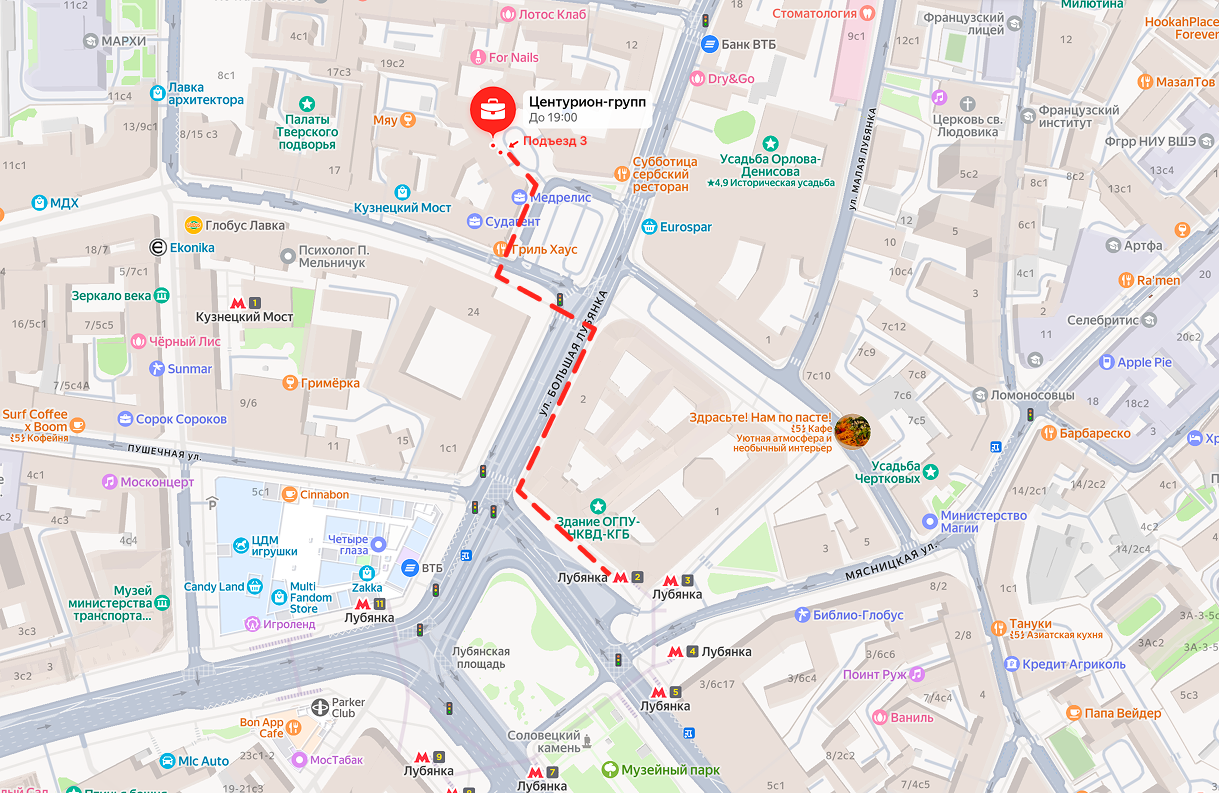
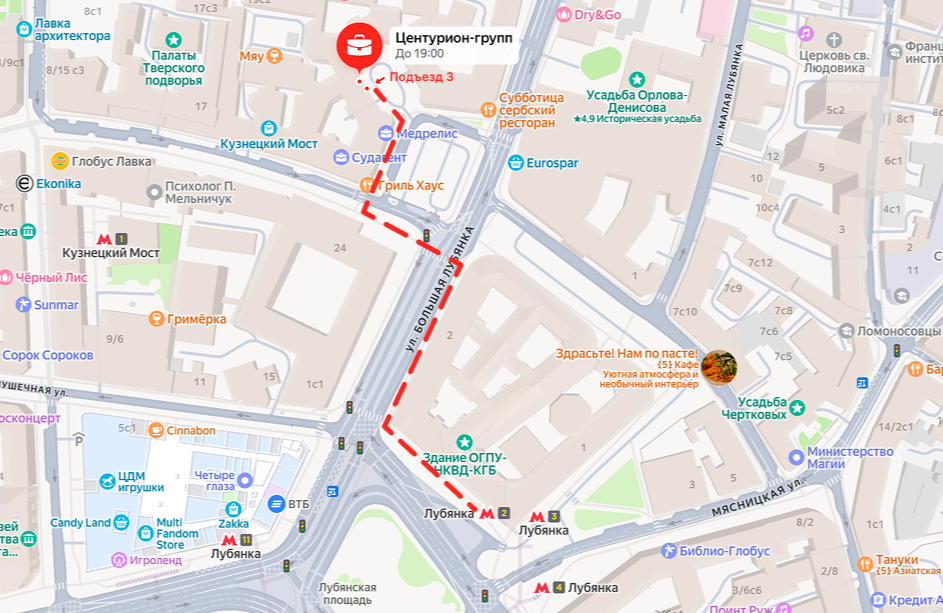
Remove map lightbox and align site containers

diff --git a/site/kontakty/index.html b/site/kontakty/index.html
@@ -100,9 +100,9 @@
               <h2>От метро Лубянка</h2>
               <p>Выйдите через выход № 2 – к Большой Лубянке и Лубянской площади. Идите прямо по зданию ОГПУ – НКВД - КГБ. На перекрестке поверните направо и идите до угла здания. Пройдите по пешеходному переходу и двигайтесь к следующему пешеходному переходу, ориентируясь на вывеску ресторана Гриль Хаус. Пройдите переход и идите прямо вдоль здания 21/5 до угла, а потом сверните налево во двор. Подъезд № 3 находится во внутреннем дворе здания.</p>
             </div>
-            <a class="direction-map-link" href="../assets/img/directions-lubyanka.png" data-lightbox-image="../assets/img/directions-lubyanka.png" data-lightbox-alt="Маршрут от метро Лубянка до офиса Центурион-групп" aria-label="Открыть карту маршрута от метро Лубянка в полном размере">
-              <img src="../assets/img/directions-lubyanka.png" alt="Маршрут от метро Лубянка до офиса Центурион-групп" width="1219" height="793" loading="lazy" decoding="async">
-            </a>
+            <figure class="direction-map">
+              <img src="../assets/img/directions-lubyanka.png" alt="Маршрут от метро Лубянка до офиса Центурион-групп" width="943" height="613" loading="lazy" decoding="async">
+            </figure>
           </article>
 
           <div class="direction-divider" aria-hidden="true"></div>
@@ -112,9 +112,9 @@
               <h2>От метро Кузнецкий мост</h2>
               <p>Выйдите через выход № 1 – к улицам Рождественка и Кузнецкий Мост. Поверните направо и пройдите через арку на улицу Рождественка. Поверните направо и идите до пешеходного перехода. Далее двигайтесь по улице Кузнецкий Мост в сторону Большой Лубянки до угла дома 21/5 (ориентир – вывеска ресторана Гриль Хаус). Сверните налево и идите во двор. Подъезд № 3 находится во внутреннем дворе здания.</p>
             </div>
-            <a class="direction-map-link" href="../assets/img/directions-kuznetsky-most.png" data-lightbox-image="../assets/img/directions-kuznetsky-most.png" data-lightbox-alt="Маршрут от метро Кузнецкий мост до офиса Центурион-групп" aria-label="Открыть карту маршрута от метро Кузнецкий мост в полном размере">
+            <figure class="direction-map">
               <img src="../assets/img/directions-kuznetsky-most.png" alt="Маршрут от метро Кузнецкий мост до офиса Центурион-групп" width="880" height="880" loading="lazy" decoding="async">
-            </a>
+            </figure>
           </article>
         </div>
       </div>
@@ -209,14 +209,6 @@
     </section>
   </main>
 
-  <div class="image-lightbox" id="map-lightbox" aria-hidden="true">
-    <div class="image-lightbox-overlay" data-lightbox-close></div>
-    <div class="image-lightbox-dialog" role="dialog" aria-modal="true" aria-label="Карта маршрута в полном размере">
-      <button class="image-lightbox-close" type="button" aria-label="Закрыть карту" data-lightbox-close>&times;</button>
-      <img class="image-lightbox-image" src="" alt="">
-    </div>
-  </div>
-
   <footer class="footer">
     <div class="container footer-inner">
       <div>ООО «Центурион-Групп» · ИНН 7725264363 · ОГРН 1157746168194</div>
@@ -224,42 +216,6 @@
     </div>
   </footer>
 
-  <script>
-    (function () {
-      var lightbox = document.getElementById('map-lightbox');
-      var lightboxImage = lightbox.querySelector('.image-lightbox-image');
-      var mapLinks = document.querySelectorAll('[data-lightbox-image]');
-      var lastFocused = null;
-
-      function openLightbox(event) {
-        event.preventDefault();
-        var link = event.currentTarget;
-        lastFocused = document.activeElement;
-        lightboxImage.src = link.dataset.lightboxImage;
-        lightboxImage.alt = link.dataset.lightboxAlt || '';
-        lightbox.setAttribute('aria-hidden', 'false');
-        document.body.classList.add('lightbox-open');
-        lightbox.querySelector('.image-lightbox-close').focus();
-      }
-
-      function closeLightbox() {
-        lightbox.setAttribute('aria-hidden', 'true');
-        document.body.classList.remove('lightbox-open');
-        lightboxImage.src = '';
-        if (lastFocused && lastFocused.focus) lastFocused.focus();
-      }
-
-      [].forEach.call(mapLinks, function (link) {
-        link.addEventListener('click', openLightbox);
-      });
-      [].forEach.call(lightbox.querySelectorAll('[data-lightbox-close]'), function (element) {
-        element.addEventListener('click', closeLightbox);
-      });
-      document.addEventListener('keydown', function (event) {
-        if (event.key === 'Escape' && lightbox.getAttribute('aria-hidden') === 'false') closeLightbox();
-      });
-    })();
-  </script>
   <script src="../assets/js/nav.js?v=20260721-nav11" defer></script>
 </body>
 </html>

diff --git a/site/assets/css/style.css b/site/assets/css/style.css
@@ -102,7 +102,7 @@ a:focus-visible {
   display: flex;
   align-items: center;
   gap: 28px;
-  padding: 16px 0;
+  padding-block: 16px;
 }
 .logo {
   display: flex;
@@ -943,7 +943,7 @@ a:focus-visible {
 .practice-map img { display: block; width: 100%; height: auto; }
 .lead-form-layout {
   display: grid;
-  grid-template-columns: minmax(0, 1fr) minmax(420px, 480px);
+  grid-template-columns: minmax(0, 1fr) minmax(0, 480px);
   gap: 72px;
   align-items: center;
 }
@@ -978,8 +978,9 @@ a:focus-visible {
 }
 .matomba-form {
   width: 100%;
-  max-width: 480px;
-  margin-left: auto;
+  max-width: none;
+  margin-left: 0;
+  justify-self: stretch;
   background: var(--ink-soft);
 }
 .matomba-frame {
@@ -988,6 +989,12 @@ a:focus-visible {
   height: 440px;
   border: 0;
   background: var(--ink-soft);
+}
+
+@media (min-width: 901px) {
+  .lead-form .matomba-form {
+    width: calc(100% + 16px);
+  }
 }
 
 @media (max-width: 900px) {
@@ -1375,16 +1382,12 @@ body.nav-open .nav-toggle span:nth-child(3) { transform: translateY(-7px) rotate
   .practice-stats { gap: 14px; }
   .practice-stats dt { font-size: 1.05rem; }
   .matomba-frame { height: 460px; }
-  .header .container {
-    padding-left: 12px;
-    padding-right: 12px;
-  }
   .header-inner {
     display: grid;
     grid-template-columns: auto minmax(0, 1fr) auto;
     gap: 8px;
     flex-wrap: nowrap;
-    padding: 12px 0;
+    padding-block: 12px;
   }
   .nav-toggle {
     width: 32px;
@@ -1908,44 +1911,21 @@ body.nav-open .nav-toggle span:nth-child(3) { transform: translateY(-7px) rotate
   font-size: 0.95rem;
   line-height: 1.55;
 }
-.direction-map-link {
+.direction-map {
   position: relative;
   display: block;
   aspect-ratio: 1219 / 793;
   overflow: hidden;
+  margin: 0;
   background: #f1f2f4;
-  cursor: zoom-in;
 }
-.direction-map-link::after {
-  position: absolute;
-  right: 10px;
-  bottom: 10px;
-  padding: 5px 9px;
-  border-radius: 3px;
-  background: rgba(15, 24, 34, 0.82);
-  color: #fff;
-  content: "Увеличить";
-  font-size: 0.72rem;
-  line-height: 1.2;
-  opacity: 0;
-  transition: opacity 0.15s ease;
-}
-.direction-map-link:hover::after,
-.direction-map-link:focus-visible::after { opacity: 1; }
-.direction-map-link:focus-visible {
-  outline: 2px solid var(--brass);
-  outline-offset: 3px;
-}
-.direction-map-link img {
+.direction-map img {
   display: block;
   width: 100%;
   height: 100%;
   object-fit: cover;
   object-position: center top;
-  transition: transform 0.2s ease;
 }
-.direction-map-link:hover img,
-.direction-map-link:focus-visible img { transform: scale(1.02); }
 .direction-divider {
   height: 1px;
   margin: 32px 0;
@@ -1971,57 +1951,6 @@ body.nav-open .nav-toggle span:nth-child(3) { transform: translateY(-7px) rotate
 }
 .requisites-row dt { color: var(--muted); }
 .requisites-row dd { color: var(--text); }
-.image-lightbox {
-  position: fixed;
-  inset: 0;
-  z-index: 200;
-  display: none;
-  place-items: center;
-  padding: 28px;
-}
-.image-lightbox[aria-hidden="false"] { display: grid; }
-.image-lightbox-overlay {
-  position: absolute;
-  inset: 0;
-  background: rgba(5, 10, 16, 0.88);
-  cursor: zoom-out;
-}
-.image-lightbox-dialog {
-  position: relative;
-  z-index: 1;
-  display: grid;
-  place-items: center;
-  width: min(94vw, 1400px);
-  height: min(92vh, 1000px);
-}
-.image-lightbox-image {
-  display: block;
-  max-width: 100%;
-  max-height: 100%;
-  width: auto;
-  height: auto;
-  box-shadow: 0 18px 60px rgba(0, 0, 0, 0.35);
-}
-.image-lightbox-close {
-  position: absolute;
-  z-index: 2;
-  top: -12px;
-  right: -12px;
-  display: grid;
-  place-items: center;
-  width: 38px;
-  height: 38px;
-  border: 1px solid rgba(255, 255, 255, 0.35);
-  border-radius: 50%;
-  background: var(--ink);
-  color: #fff;
-  font-size: 1.6rem;
-  line-height: 1;
-  cursor: pointer;
-}
-.image-lightbox-close:hover { background: var(--brass); }
-body.lightbox-open { overflow: hidden; }
-
 @media (max-width: 800px) {
   .contacts-page-grid,
   .direction-route { grid-template-columns: 1fr; gap: 30px; }
@@ -2029,7 +1958,7 @@ body.lightbox-open { overflow: hidden; }
   .contacts-page-quick,
   .contacts-page-details,
   .direction-copy,
-  .direction-map-link {
+  .direction-map {
     grid-column: auto;
     grid-row: auto;
   }
@@ -2047,7 +1976,4 @@ body.lightbox-open { overflow: hidden; }
     padding: 15px 0;
   }
   .requisites-row dd { font-size: 0.9rem; }
-  .image-lightbox { padding: 18px; }
-  .image-lightbox-dialog { width: 100%; height: 88vh; }
-  .image-lightbox-close { top: -10px; right: -4px; }
 }
